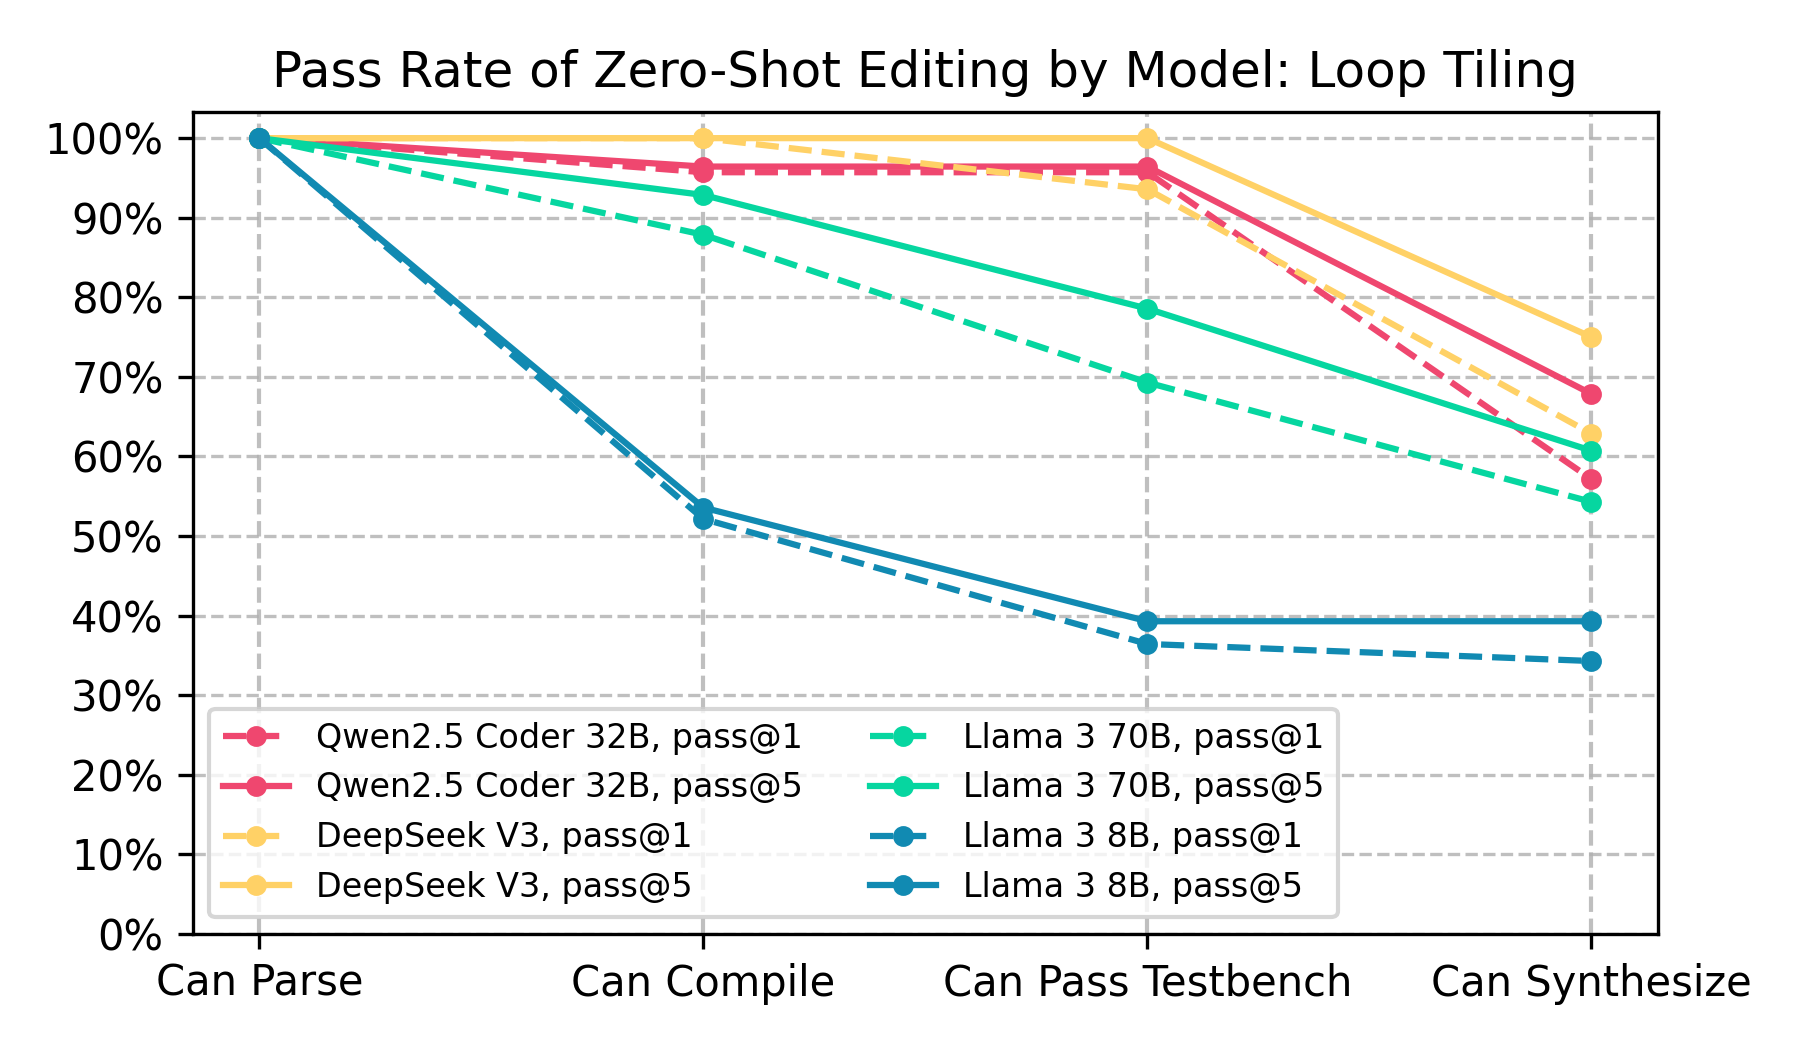
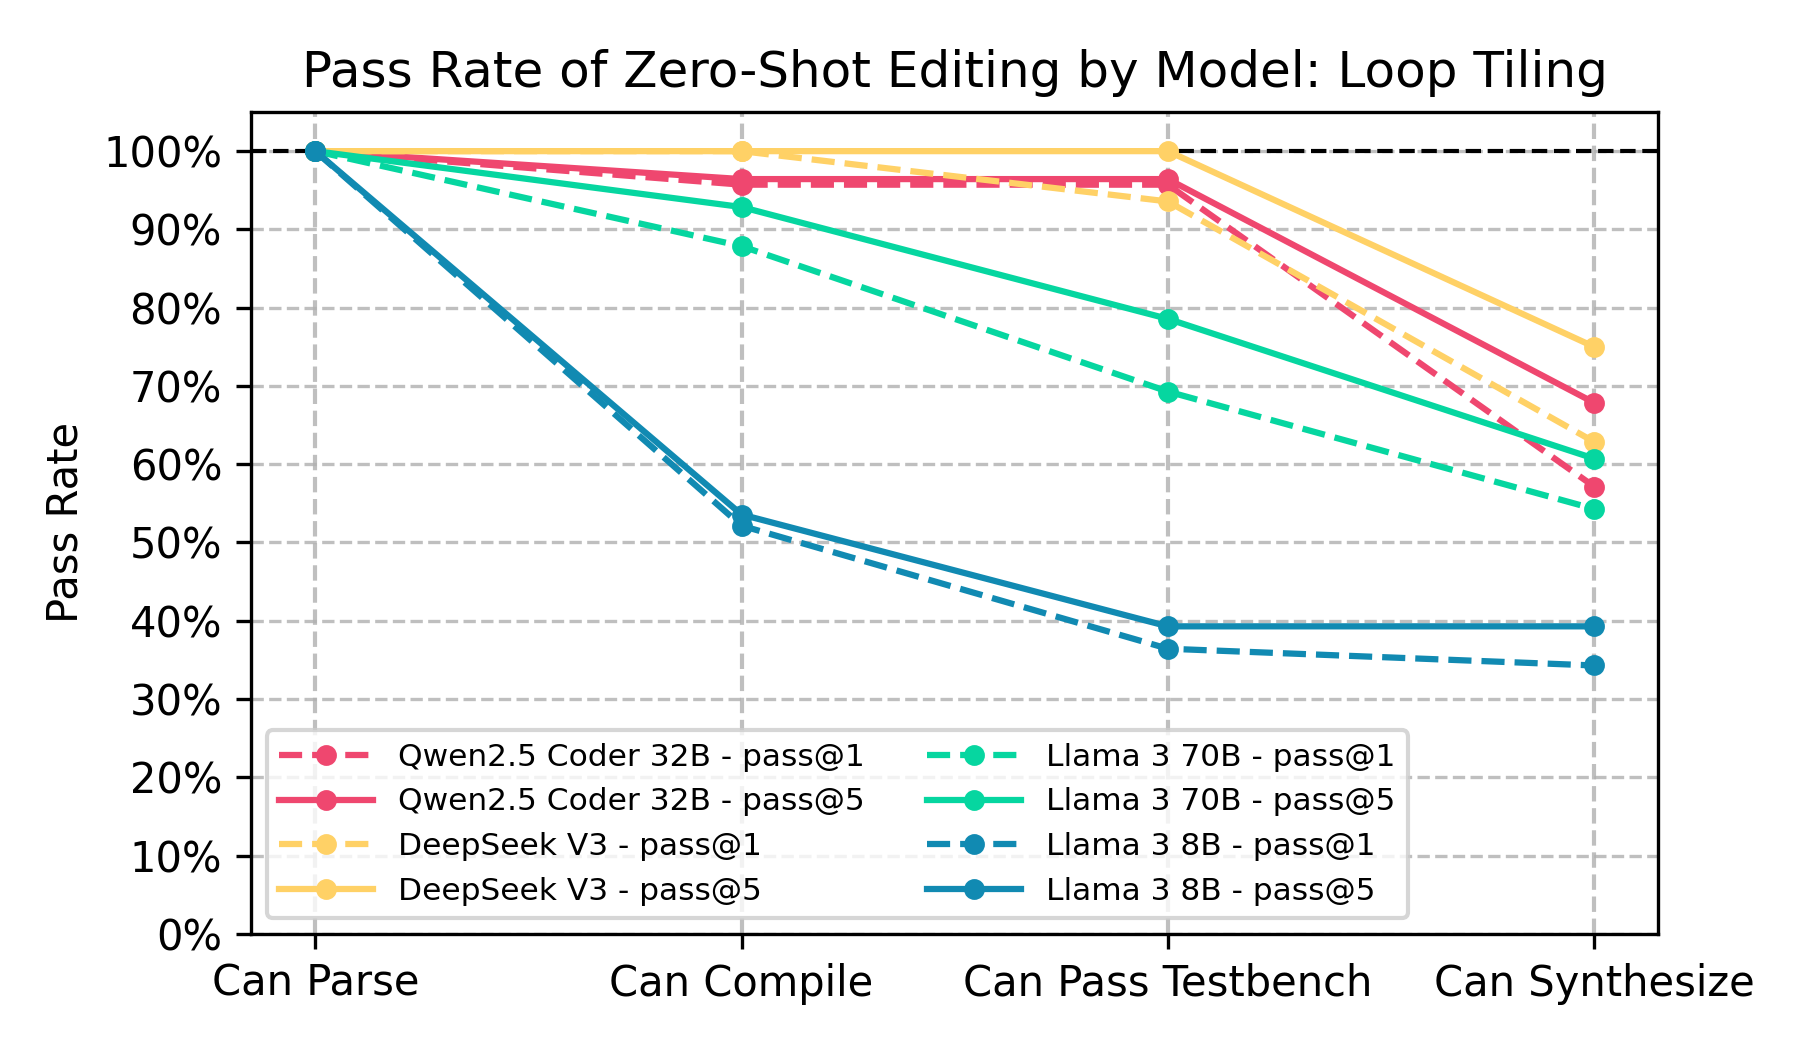
updated tables and figures

diff --git a/hls_eval_experiments/hls_inference_scaling/exp.py b/hls_eval_experiments/hls_inference_scaling/exp.py
@@ -1,0 +1,107 @@
+import logging
+from pathlib import Path
+
+from dotenv import dotenv_values
+
+from hls_eval.data import BenchmarkCase, find_benchmark_case_dirs
+from hls_eval.eval import HLSEditingZeroShotEvaluator, HLSGenerationZeroShotEvaluator
+from hls_eval.llms import build_model_remote_tai
+from hls_eval.prompts import prompt_dataflow
+from hls_eval.tools import VitisHLSCSimTool, VitisHLSSynthTool, auto_find_vitis_hls_dir
+from hls_eval.utils import check_key, unwrap
+
+EXP_NAME = "hls_inference_scaling"
+
+DIR_CURRENT = Path(__file__).resolve().parent
+DIR_ROOT = DIR_CURRENT.parent.parent
+
+DIR_HLS_EVAL_DATA = DIR_ROOT / "hls_eval_data"
+
+DIR_CURRENT_OUTPUT_DATA = DIR_CURRENT / "output_data"
+if not DIR_CURRENT_OUTPUT_DATA.exists():
+    DIR_CURRENT_OUTPUT_DATA.mkdir()
+
+LOGGER = logging.getLogger(EXP_NAME)
+LOGGER.propagate = True
+LOGGER.setLevel(logging.DEBUG)
+
+API_KEY_TOGETHERAI = check_key(dotenv_values(".env")["TOGETHER_API_KEY"])
+
+
+if __name__ == "__main__":
+    all_benchmark_case_dirs = find_benchmark_case_dirs(DIR_HLS_EVAL_DATA)
+    all_benchmark_cases = [
+        BenchmarkCase(d, name=d.name) for d in all_benchmark_case_dirs
+    ]
+
+    sets_to_test = set(["polybench"])
+
+    all_benchmark_cases = [
+        bc
+        for bc in all_benchmark_cases
+        if len(set(bc.tags_all).intersection(sets_to_test)) > 0
+    ]
+    all_benchmark_cases = sorted(all_benchmark_cases, key=lambda x: x.name)
+
+    N_DESIGNS = 16
+    all_benchmark_cases = all_benchmark_cases[:N_DESIGNS]
+
+    all_benchmark_cases_map = {bc.name: bc for bc in all_benchmark_cases}
+
+    model_names_to_test = [
+        "meta-llama/Llama-3-70b-chat-hf",
+        "meta-llama/Llama-3-8b-chat-hf",
+        "Qwen/Qwen2.5-Coder-32B-Instruct",
+        "deepseek-ai/DeepSeek-V3",
+    ]
+    models = [
+        build_model_remote_tai(model_name, api_key=API_KEY_TOGETHERAI)
+        for model_name in model_names_to_test
+    ]
+    models_map = {
+        model_name: model for model_name, model in zip(model_names_to_test, models)
+    }
+
+    vitis_hls_dir = unwrap(auto_find_vitis_hls_dir(), "Vitis HLS bin not auto found")
+
+    prompt_task = prompt_dataflow
+
+    evaluator = HLSEditingZeroShotEvaluator(
+        vitis_hls_tool_csim=VitisHLSCSimTool(vitis_hls_dir),
+        vitis_hls_tool_synth=VitisHLSSynthTool(vitis_hls_dir),
+        output_data_dir=DIR_CURRENT_OUTPUT_DATA,
+        prompt_task=prompt_task,
+        n_samples=40,
+        temperature=0.7,
+    )
+
+    evaluator.evaluate_designs(
+        benchmark_cases=all_benchmark_cases,
+        models=models,
+        n_jobs=20,
+        n_jobs_pool_llm=5,
+        n_jobs_pool_csim=16,
+        n_jobs_pool_synth=16,
+    )
+
+    # one off runs to get any by hand that failed for some network reasons
+    # one_off_benchmark_cases = [bc for bc in all_benchmark_cases if bc.name == "fdtd-2d"]
+    # one_off_models = [m for m in models if m.name == "google/gemma-2-27b-it"]
+
+    # one_off_cases = [
+    #     ("gemm", "meta-llama/Llama-3-8b-chat-hf"),
+    #     ("atax", "meta-llama/Llama-3-8b-chat-hf"),
+    # ]
+
+    # one_off_cases_objects = [
+    #     (all_benchmark_cases_map[case_name], models_map[model_name])
+    #     for case_name, model_name in one_off_cases
+    # ]
+
+    # evaluator.evaluate_design_model_pairs(
+    #     one_off_cases_objects,
+    #     n_jobs=16,
+    #     n_jobs_pool_llm=4,
+    #     n_jobs_pool_csim=16,
+    #     n_jobs_pool_synth=16,
+    # )

diff --git a/hls_eval_experiments/exp_utils.py b/hls_eval_experiments/exp_utils.py
@@ -239,6 +239,26 @@ def build_pass_table(df_pass_rates: pd.DataFrame):
         values="pass_rate",
     )
 
+    # sort metrics colums multi index in a specific order
+    order_map = {
+        "Can Parse": 0,
+        "Can Compile": 1,
+        "Can Pass Testbench": 2,
+        "Can Synthesize": 3,
+    }
+    df_pass_rates = df_pass_rates.sort_index(axis=1, key=lambda x: x.map(order_map))
+
+    # sort the models rows in a specifc order of models
+    order_map = {
+        "DeepSeek V3": 0,
+        "Qwen2.5 Coder 32B": 1,
+        "Llama 3 70B": 2,
+        "Llama 3 8B": 3,
+    }
+    df_pass_rates = df_pass_rates.sort_values(
+        by="model_name", key=lambda x: x.map(order_map)
+    )
+
     df_pass_rates = df_pass_rates.fillna("")
     # df_pass_rates = df_pass_rates.rename_axis(None, axis=1)
     # df_pass_rates = df_pass_rates.rename_axis(None, axis=0)
@@ -293,7 +313,8 @@ def build_pass_table(df_pass_rates: pd.DataFrame):
         ):
             lines.insert(
                 i,
-                r"\cmidrule(lr){2-3} \cmidrule(lr){4-5} \cmidrule(lr){6-7} \cmidrule(lr){8-9}",
+                # r"\cmidrule(lr){2-3} \cmidrule(lr){4-5} \cmidrule(lr){6-7} \cmidrule(lr){8-9}",
+                r"\midrule",
             )
             break
     latex_txt = "\n".join(lines)
@@ -379,7 +400,7 @@ def plot_pass_rates_bar(df_pass_rates, ks=[1, 5]):
     return fig
 
 
-def plot_pass_rates_line(df_pass_rates, title: str, ks=[1, 5]):
+def plot_pass_rates_line(df_pass_rates, title: str, ks=[1, 5], leg_ncols: int = 2):
     models = df_pass_rates["model_name"].unique()
     n_models = len(models)
     # colors = matplotlib.cm.tab20(range(20))
@@ -389,6 +410,9 @@ def plot_pass_rates_line(df_pass_rates, title: str, ks=[1, 5]):
     model_to_color = {model: model_color_map[model] for model in models}
 
     fig, ax = plt.subplots(1, 1, figsize=(6, 3.5))
+
+    ax.grid(axis="y", linestyle="--", alpha=0.8, zorder=-10)
+    ax.set_axisbelow(True)
 
     coord_to_stage = {
         0: "pass_parse",
@@ -426,8 +450,10 @@ def plot_pass_rates_line(df_pass_rates, title: str, ks=[1, 5]):
             markersize=4,
             color=color,
             linestyle=linestyle,
-            label=f"{model_name_map[model]}, pass@{k}",
+            label=f"{model_name_map[model]} - pass@{k}",
         )
+
+    ax.axhline(y=1, color="black", linestyle="--", alpha=1.0, zorder=1, linewidth=1)
 
     # add virtiline dashed gray lines at each stage
     for i in range(4):
@@ -448,9 +474,13 @@ def plot_pass_rates_line(df_pass_rates, title: str, ks=[1, 5]):
     ax.set_yticklabels(
         [f"{x:.0%}" for x in np.arange(0, 1.1, 0.1)]
     )  # format as percent in 10% increments
-    ax.legend(loc="lower left", ncol=2, fontsize=8)
-    ax.grid(axis="y", linestyle="--", alpha=0.8, zorder=-10)
-    ax.set_axisbelow(True)
+
+    ax.set_ylim(0, 1.05)
+
+    ax.set_ylabel("Pass Rate")
+
+    ax.legend(loc="lower left", ncol=leg_ncols, fontsize=7.5, handlelength=3)
+
     # ax.set_title(label="Pass Rate of Zero-Shot Editing by Model: Loop Tiling")
     ax.set_title(title)
 

diff --git a/hls_eval_experiments/hls_edit_zero_shot__fpx/data/pass_rate_table.tex b/hls_eval_experiments/hls_edit_zero_shot__fpx/data/pass_rate_table.tex
@@ -1,12 +1,12 @@
 \begin{tabular}{l|rr|rr|rr|rr}
 \cmidrule[\heavyrulewidth]{2-9}
- & \multicolumn{2}{c|}{\textbf{Can Compile}} & \multicolumn{2}{c|}{\textbf{Can Parse}} & \multicolumn{2}{c|}{\textbf{Can Pass TB}} & \multicolumn{2}{c}{\textbf{Can Synth}} \\
-\cmidrule(lr){2-3} \cmidrule(lr){4-5} \cmidrule(lr){6-7} \cmidrule(lr){8-9}
+ & \multicolumn{2}{c|}{\textbf{Can Parse}} & \multicolumn{2}{c|}{\textbf{Can Compile}} & \multicolumn{2}{c|}{\textbf{Can Pass TB}} & \multicolumn{2}{c}{\textbf{Can Synth}} \\
+\midrule
  \textbf{Model} & \textbf{pass@1} & \textbf{pass@5} & \textbf{pass@1} & \textbf{pass@5} & \textbf{pass@1} & \textbf{pass@5} & \textbf{pass@1} & \textbf{pass@5} \\
 \midrule
-DeepSeek V3 & 78.1\% & 79.2\% & 100.0\% & 100.0\% & 72.5\% & 73.6\% & 75.1\% & 81.1\% \\
-Llama 3 70B & 57.0\% & 62.3\% & 100.0\% & 100.0\% & 54.3\% & 60.4\% & 51.3\% & 56.6\% \\
-Llama 3 8B & 55.8\% & 62.5\% & 100.0\% & 100.0\% & 43.3\% & 47.9\% & 45.0\% & 54.2\% \\
-Qwen2.5 Coder 32B & 67.5\% & 69.8\% & 100.0\% & 100.0\% & 62.6\% & 66.0\% & 69.8\% & 71.7\% \\
+DeepSeek V3 & 100.0\% & 100.0\% & 78.1\% & 79.2\% & 72.5\% & 73.6\% & 75.1\% & 81.1\% \\
+Qwen2.5 Coder 32B & 100.0\% & 100.0\% & 67.5\% & 69.8\% & 62.6\% & 66.0\% & 69.8\% & 71.7\% \\
+Llama 3 70B & 100.0\% & 100.0\% & 57.0\% & 62.3\% & 54.3\% & 60.4\% & 51.3\% & 56.6\% \\
+Llama 3 8B & 100.0\% & 100.0\% & 55.8\% & 62.5\% & 43.3\% & 47.9\% & 45.0\% & 54.2\% \\
 \bottomrule
 \end{tabular}

diff --git a/hls_eval_experiments/hls_gen_zero_shot__main/data/pass_rate_table.tex b/hls_eval_experiments/hls_gen_zero_shot__main/data/pass_rate_table.tex
@@ -1,12 +1,12 @@
 \begin{tabular}{l|rr|rr|rr|rr}
 \cmidrule[\heavyrulewidth]{2-9}
- & \multicolumn{2}{c|}{\textbf{Can Compile}} & \multicolumn{2}{c|}{\textbf{Can Parse}} & \multicolumn{2}{c|}{\textbf{Can Pass TB}} & \multicolumn{2}{c}{\textbf{Can Synth}} \\
-\cmidrule(lr){2-3} \cmidrule(lr){4-5} \cmidrule(lr){6-7} \cmidrule(lr){8-9}
+ & \multicolumn{2}{c|}{\textbf{Can Parse}} & \multicolumn{2}{c|}{\textbf{Can Compile}} & \multicolumn{2}{c|}{\textbf{Can Pass TB}} & \multicolumn{2}{c}{\textbf{Can Synth}} \\
+\midrule
  \textbf{Model} & \textbf{pass@1} & \textbf{pass@5} & \textbf{pass@1} & \textbf{pass@5} & \textbf{pass@1} & \textbf{pass@5} & \textbf{pass@1} & \textbf{pass@5} \\
 \midrule
-DeepSeek V3 & 94.1\% & 97.6\% & 100.0\% & 100.0\% & 63.3\% & 65.9\% & 93.2\% & 97.6\% \\
-Llama 3 70B & 84.9\% & 87.1\% & 98.6\% & 100.0\% & 53.6\% & 54.1\% & 82.1\% & 84.7\% \\
-Llama 3 8B & 72.7\% & 75.3\% & 98.4\% & 98.8\% & 44.9\% & 47.1\% & 70.6\% & 72.9\% \\
-Qwen2.5 Coder 32B & 90.8\% & 92.9\% & 95.5\% & 97.6\% & 57.6\% & 58.8\% & 83.8\% & 85.9\% \\
+DeepSeek V3 & 100.0\% & 100.0\% & 94.1\% & 97.6\% & 63.3\% & 65.9\% & 93.2\% & 97.6\% \\
+Qwen2.5 Coder 32B & 95.5\% & 97.6\% & 90.8\% & 92.9\% & 57.6\% & 58.8\% & 83.8\% & 85.9\% \\
+Llama 3 70B & 98.6\% & 100.0\% & 84.9\% & 87.1\% & 53.6\% & 54.1\% & 82.1\% & 84.7\% \\
+Llama 3 8B & 98.4\% & 98.8\% & 72.7\% & 75.3\% & 44.9\% & 47.1\% & 70.6\% & 72.9\% \\
 \bottomrule
 \end{tabular}

diff --git a/hls_eval_experiments/hls_edit_zero_shot__dataflow/data/pass_rate_table.tex b/hls_eval_experiments/hls_edit_zero_shot__dataflow/data/pass_rate_table.tex
@@ -1,12 +1,12 @@
-\begin{tabular}{lrrrrrrrr}
-\toprule
-k & \multicolumn{4}{c}{1} & \multicolumn{4}{c}{5} \\
-metric_name & Can Compile & Can Parse & Can Pass Testbench & Can Synthesize & Can Compile & Can Parse & Can Pass Testbench & Can Synthesize \\
-model_name &  &  &  &  &  &  &  &  \\
+\begin{tabular}{l|rr|rr|rr|rr}
+\cmidrule[\heavyrulewidth]{2-9}
+ & \multicolumn{2}{c|}{\textbf{Can Parse}} & \multicolumn{2}{c|}{\textbf{Can Compile}} & \multicolumn{2}{c|}{\textbf{Can Pass TB}} & \multicolumn{2}{c}{\textbf{Can Synth}} \\
 \midrule
-DeepSeek V3 & 96.4% & 100.0% & 96.4% & 48.6% & 96.4% & 100.0% & 96.4% & 57.1% \\
-Llama 3 70B & 80.0% & 100.0% & 80.0% & 60.7% & 89.3% & 100.0% & 89.3% & 67.9% \\
-Llama 3 8B & 30.7% & 100.0% & 30.7% & 9.3% & 35.7% & 100.0% & 35.7% & 21.4% \\
-Qwen2.5 Coder 32B & 89.3% & 100.0% & 89.3% & 24.3% & 89.3% & 100.0% & 89.3% & 28.6% \\
+ \textbf{Model} & \textbf{pass@1} & \textbf{pass@5} & \textbf{pass@1} & \textbf{pass@5} & \textbf{pass@1} & \textbf{pass@5} & \textbf{pass@1} & \textbf{pass@5} \\
+\midrule
+DeepSeek V3 & 100.0\% & 100.0\% & 96.4\% & 96.4\% & 96.4\% & 96.4\% & 48.6\% & 57.1\% \\
+Qwen2.5 Coder 32B & 100.0\% & 100.0\% & 89.3\% & 89.3\% & 89.3\% & 89.3\% & 24.3\% & 28.6\% \\
+Llama 3 70B & 100.0\% & 100.0\% & 80.0\% & 89.3\% & 80.0\% & 89.3\% & 60.7\% & 67.9\% \\
+Llama 3 8B & 100.0\% & 100.0\% & 30.7\% & 35.7\% & 30.7\% & 35.7\% & 9.3\% & 21.4\% \\
 \bottomrule
 \end{tabular}

diff --git a/hls_eval_experiments/hls_edit_zero_shot__loop_tile/data/pass_rate_table.tex b/hls_eval_experiments/hls_edit_zero_shot__loop_tile/data/pass_rate_table.tex
@@ -1,12 +1,12 @@
 \begin{tabular}{l|rr|rr|rr|rr}
 \cmidrule[\heavyrulewidth]{2-9}
- & \multicolumn{2}{c|}{\textbf{Can Compile}} & \multicolumn{2}{c|}{\textbf{Can Parse}} & \multicolumn{2}{c|}{\textbf{Can Pass TB}} & \multicolumn{2}{c}{\textbf{Can Synth}} \\
-\cmidrule(lr){2-3} \cmidrule(lr){4-5} \cmidrule(lr){6-7} \cmidrule(lr){8-9}
+ & \multicolumn{2}{c|}{\textbf{Can Parse}} & \multicolumn{2}{c|}{\textbf{Can Compile}} & \multicolumn{2}{c|}{\textbf{Can Pass TB}} & \multicolumn{2}{c}{\textbf{Can Synth}} \\
+\midrule
  \textbf{Model} & \textbf{pass@1} & \textbf{pass@5} & \textbf{pass@1} & \textbf{pass@5} & \textbf{pass@1} & \textbf{pass@5} & \textbf{pass@1} & \textbf{pass@5} \\
 \midrule
 DeepSeek V3 & 100.0\% & 100.0\% & 100.0\% & 100.0\% & 93.6\% & 100.0\% & 62.9\% & 75.0\% \\
-Llama 3 70B & 87.9\% & 92.9\% & 100.0\% & 100.0\% & 69.3\% & 78.6\% & 54.3\% & 60.7\% \\
-Llama 3 8B & 52.1\% & 53.6\% & 100.0\% & 100.0\% & 36.4\% & 39.3\% & 34.3\% & 39.3\% \\
-Qwen2.5 Coder 32B & 95.7\% & 96.4\% & 100.0\% & 100.0\% & 95.7\% & 96.4\% & 57.1\% & 67.9\% \\
+Qwen2.5 Coder 32B & 100.0\% & 100.0\% & 95.7\% & 96.4\% & 95.7\% & 96.4\% & 57.1\% & 67.9\% \\
+Llama 3 70B & 100.0\% & 100.0\% & 87.9\% & 92.9\% & 69.3\% & 78.6\% & 54.3\% & 60.7\% \\
+Llama 3 8B & 100.0\% & 100.0\% & 52.1\% & 53.6\% & 36.4\% & 39.3\% & 34.3\% & 39.3\% \\
 \bottomrule
 \end{tabular}

diff --git a/hls_eval_experiments/hls_gen_zero_shot__main/analyze.py b/hls_eval_experiments/hls_gen_zero_shot__main/analyze.py
@@ -82,6 +82,39 @@ fig.savefig(DIR_FIGURES / "pass_rates.png", dpi=300)
 
 
 fig = plot_pass_rates_line(
-    df_pass_rates, "Pass Rate of Zero-Shot Generation by Model: Kernel Implementation"
+    df_pass_rates, "Pass Rate of Zero-Shot Kernel Generation by Model"
 )
 fig.savefig(DIR_FIGURES / "pass_rates_line.png", dpi=300)
+
+data_sources = ["polybench", "machsuite", "chstone", "rosetta", "c2hlsc"]
+
+source_name_map = {
+    "polybench": "Polybench",
+    "machsuite": "MachSuite",
+    "chstone": "CHStone",
+    "rosetta": "Rosetta",
+    "c2hlsc": "C2HLSC",
+}
+
+
+df_by_source = {}
+for source in data_sources:
+    df_sub = df[df["benchmark_case_tags"].apply(lambda x: source in x)]
+    df_by_source[source] = df_sub
+
+df_pass_rates_by_source = {}
+for source in data_sources:
+    df_sub = df_by_source[source]
+    df_pass_rates_by_source[source] = compute_pass_rates(df_sub)
+
+for source in data_sources:
+    # make a figure for each source
+    fig = plot_pass_rates_line(
+        df_pass_rates_by_source[source],
+        f"Pass Rate of Zero-Shot Kernel Generation by Model - {source_name_map[source]}",
+        leg_ncols=1,
+    )
+    dir_fig_source = DIR_FIGURES / "split_by_source"
+    if not dir_fig_source.exists():
+        dir_fig_source.mkdir()
+    fig.savefig(dir_fig_source / f"pass_rates_line__{source}.png", dpi=300)

diff --git a/hls_eval_experiments/hls_edit_zero_shot__label/data/pass_rate_table.tex b/hls_eval_experiments/hls_edit_zero_shot__label/data/pass_rate_table.tex
@@ -1,12 +1,12 @@
 \begin{tabular}{l|rr|rr|rr|rr}
 \cmidrule[\heavyrulewidth]{2-9}
- & \multicolumn{2}{c|}{\textbf{Can Compile}} & \multicolumn{2}{c|}{\textbf{Can Parse}} & \multicolumn{2}{c|}{\textbf{Can Pass TB}} & \multicolumn{2}{c}{\textbf{Can Synth}} \\
-\cmidrule(lr){2-3} \cmidrule(lr){4-5} \cmidrule(lr){6-7} \cmidrule(lr){8-9}
+ & \multicolumn{2}{c|}{\textbf{Can Parse}} & \multicolumn{2}{c|}{\textbf{Can Compile}} & \multicolumn{2}{c|}{\textbf{Can Pass TB}} & \multicolumn{2}{c}{\textbf{Can Synth}} \\
+\midrule
  \textbf{Model} & \textbf{pass@1} & \textbf{pass@5} & \textbf{pass@1} & \textbf{pass@5} & \textbf{pass@1} & \textbf{pass@5} & \textbf{pass@1} & \textbf{pass@5} \\
 \midrule
 DeepSeek V3 & 100.0\% & 100.0\% & 100.0\% & 100.0\% & 100.0\% & 100.0\% & 100.0\% & 100.0\% \\
-Llama 3 70B & 90.7\% & 96.4\% & 100.0\% & 100.0\% & 90.0\% & 92.9\% & 90.7\% & 96.4\% \\
-Llama 3 8B & 39.3\% & 39.3\% & 100.0\% & 100.0\% & 39.3\% & 39.3\% & 39.3\% & 39.3\% \\
 Qwen2.5 Coder 32B & 100.0\% & 100.0\% & 100.0\% & 100.0\% & 100.0\% & 100.0\% & 100.0\% & 100.0\% \\
+Llama 3 70B & 100.0\% & 100.0\% & 90.7\% & 96.4\% & 90.0\% & 92.9\% & 90.7\% & 96.4\% \\
+Llama 3 8B & 100.0\% & 100.0\% & 39.3\% & 39.3\% & 39.3\% & 39.3\% & 39.3\% & 39.3\% \\
 \bottomrule
 \end{tabular}
